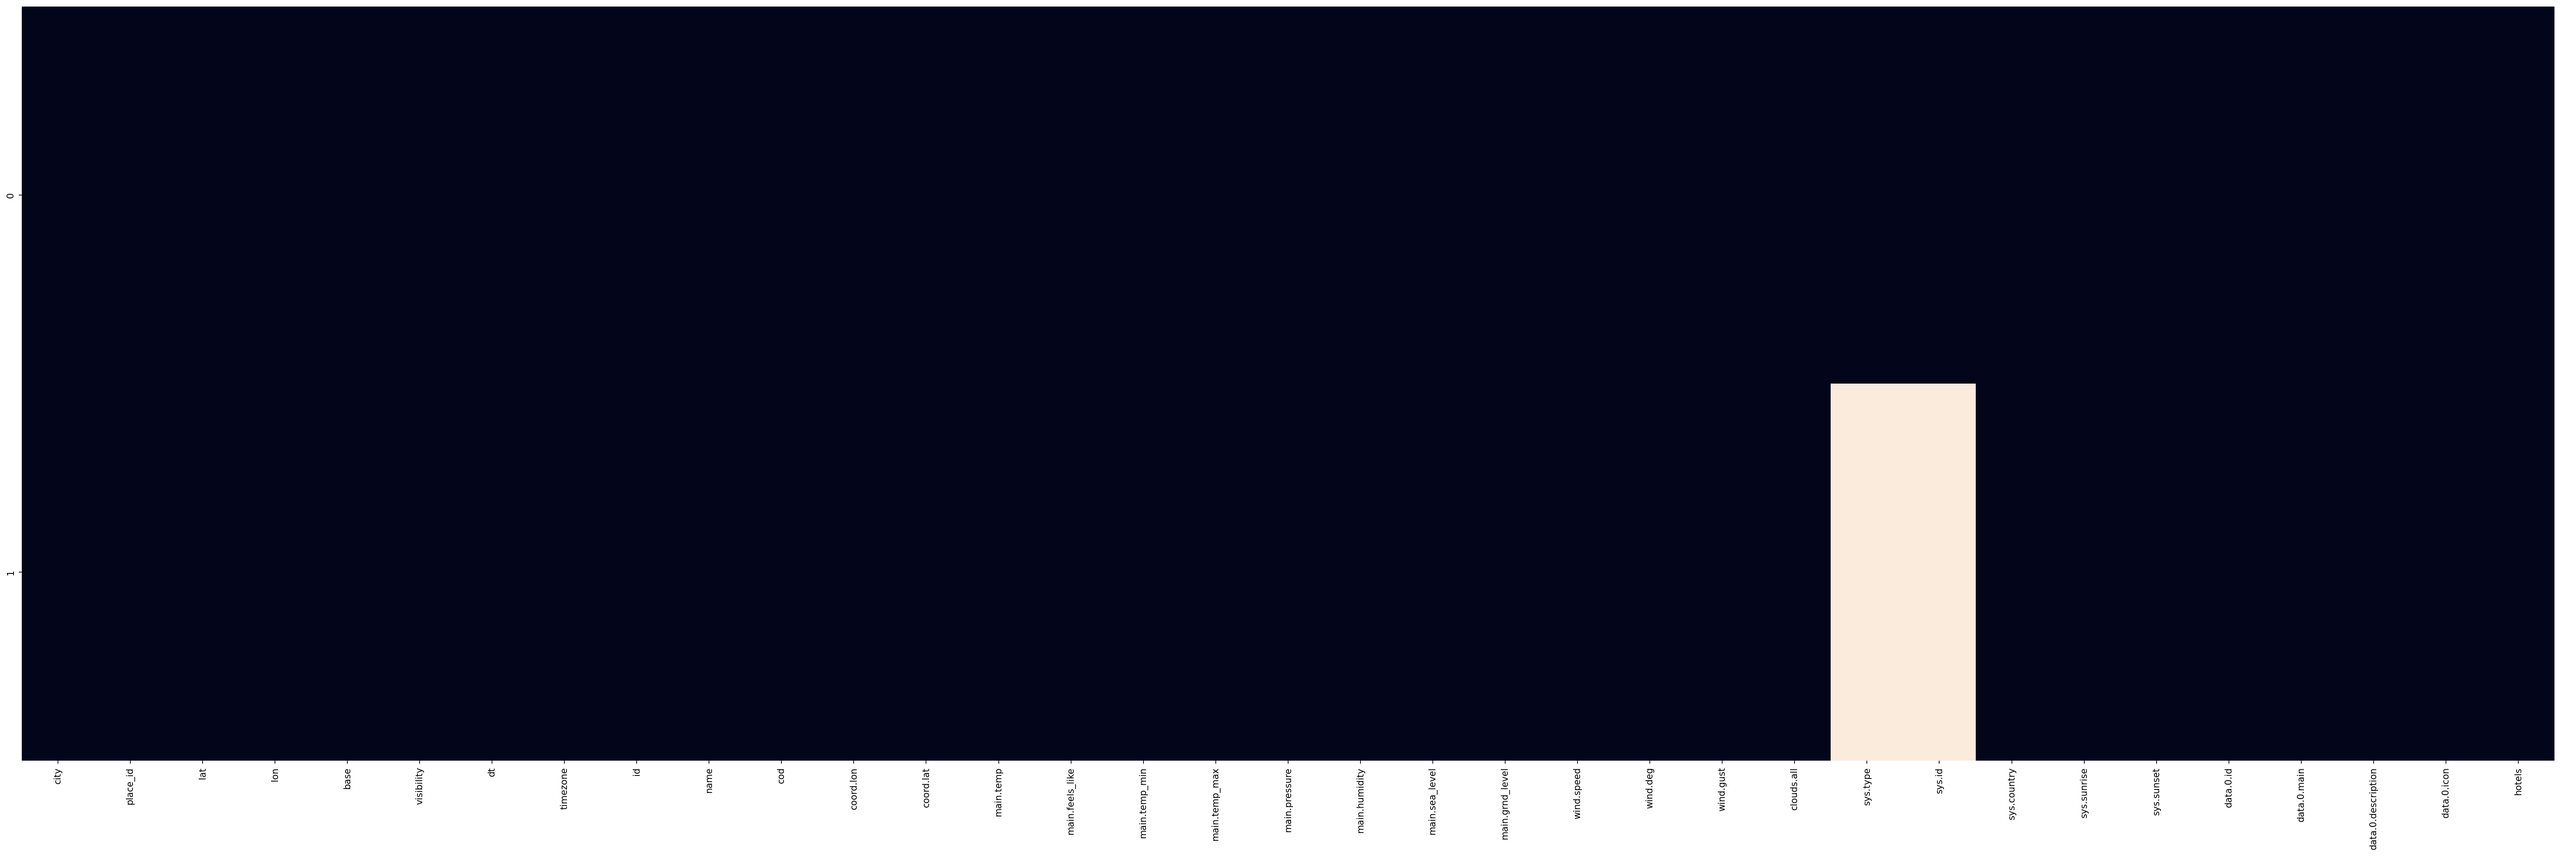
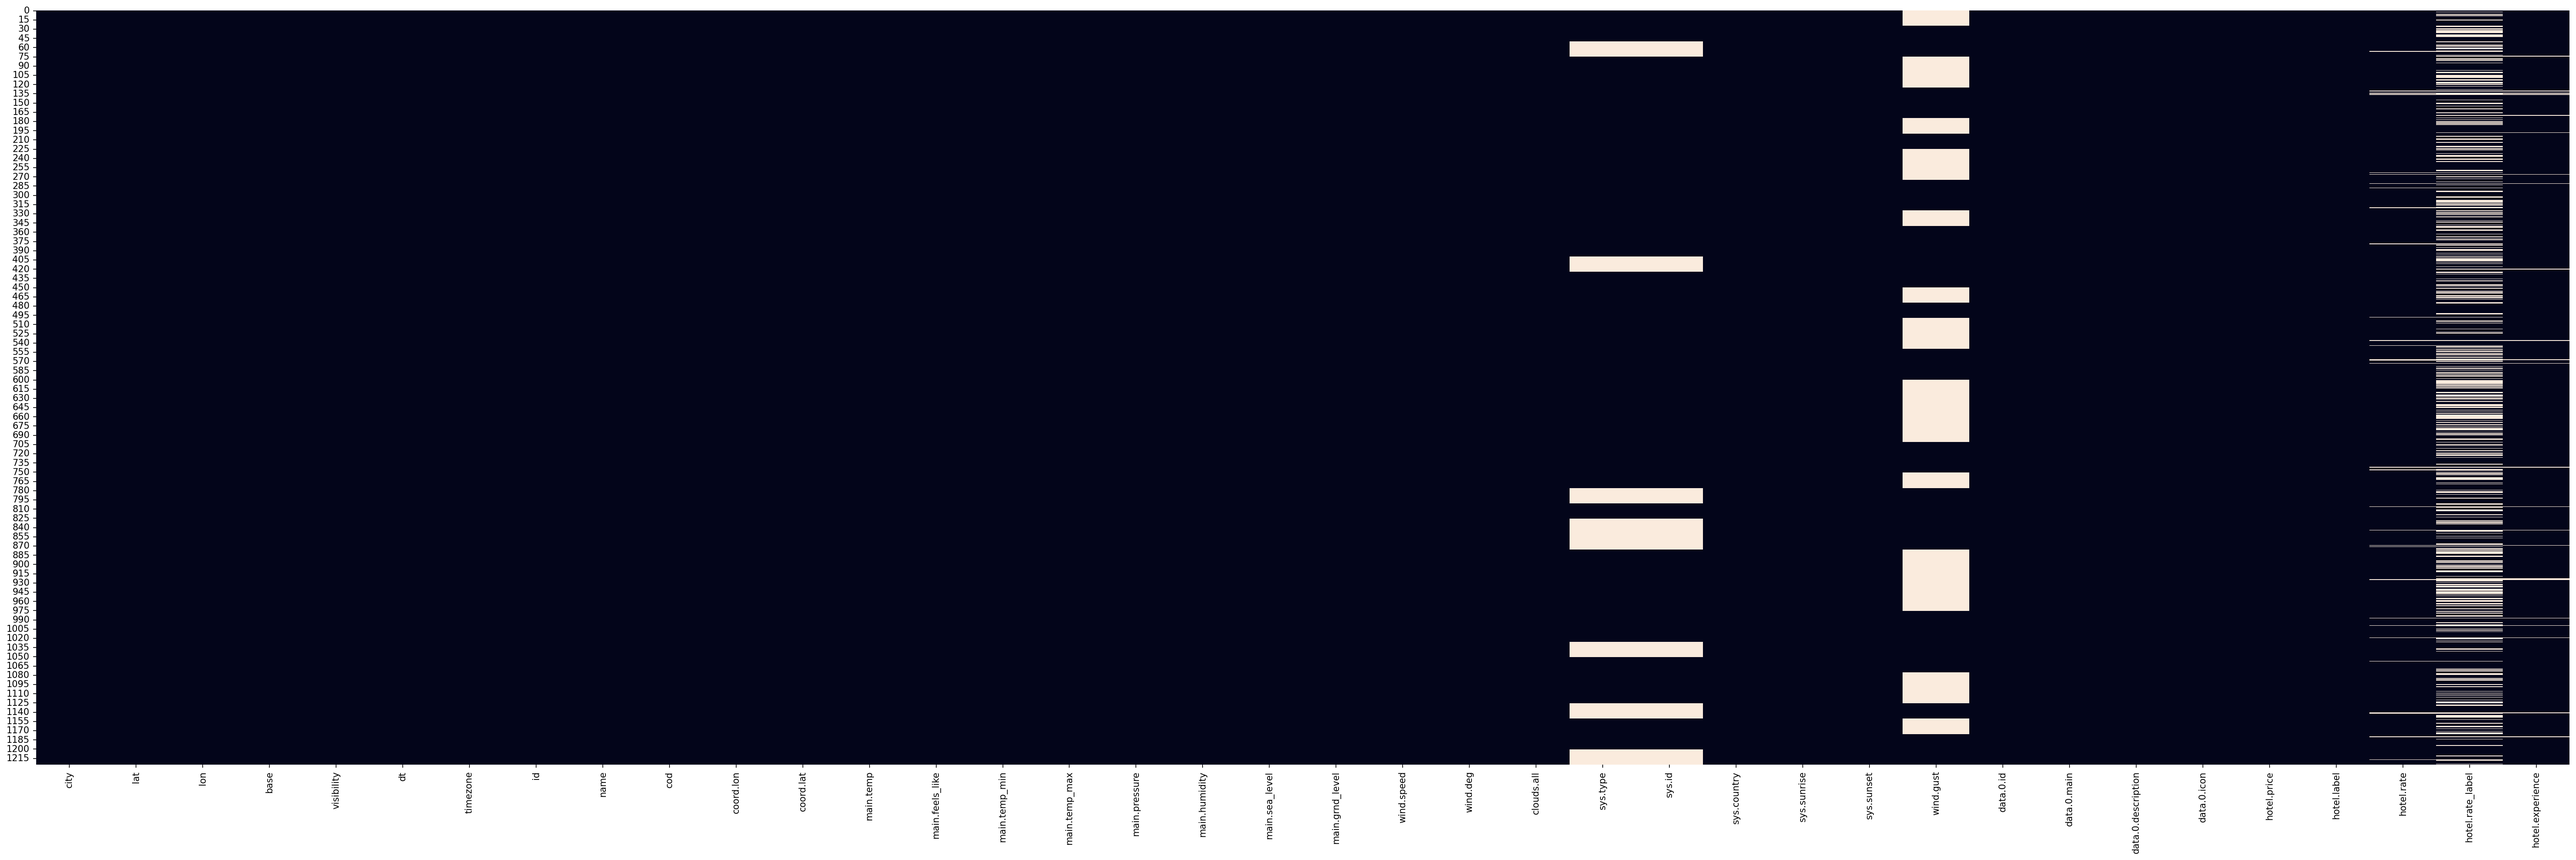
logs de traitement en cours

diff --git a/app.py b/app.py
@@ -19,15 +19,12 @@ from get_hotel import get_hotel
 # call api 
 ## get_city 
 
-# V2.5 "https://api.openweathermap.org/data/2.5/weather"
-# V4.0 "https://api.openweathermap.org/data/4.0/onecall/current"
-
-weather_url = weather_url
-
 cities_info = get_city(cities) # in dictionaries list, fetch per element
 cities_df = t.cities_normalize(cities_info)
 
 ## get_weather
+
+weather_url = weather_url
 
 weather_info = get_weather(cities_info)[0]
 weather_df = t.weather_normalize(weather_info)
@@ -65,7 +62,7 @@ for i, city in enumerate(current_weather_df['city']):
             hotel_info.append(hotel)
         else :
             no_hotel.append(city)
-        print(f"{len(hotel['hotels'])} hotel(s) found for {city}")
+        print(f"{len(hotel['hotels'])} hotel(s) found in {city}")
 
         if (i + 1) % 20 == 0:
             print("Pause after 20 cities...")

diff --git a/get_hotel.py b/get_hotel.py
@@ -21,6 +21,10 @@ def get_hotel(city, checkin, checkout):
     """
     Récupère les informations des hôtels pour une ville donnée en utilisant le site Booking.com via Playwright.
     """
+    # logs
+    print("---------------------------------------------------------------------")
+    print("Fetch hotel datas for each city...")
+
     city_url = quote_plus(city)
     # url = f"https://www.booking.com/searchresults.fr.html?ss={city_url}&lang=fr&checkin={checkin}&checkout={checkout}"
     url= f"https://www.booking.com/searchresults.fr.html?ss={city_url}&lang=fr&checkin={checkin}&checkout={checkout}&nflt=ht_id%3D204"
@@ -113,7 +117,7 @@ def get_hotel(city, checkin, checkout):
 
         browser.close()
 
-        return hotel_info
+    return hotel_info
 
 ##### script tests ####
 # get_hotel = get_hotel(city, checkin, checkout)

diff --git a/get_city.py b/get_city.py
@@ -79,10 +79,15 @@ def get_city(cities):
             print(f"Execution with errors for {city} : {nominatim_response.status_code}")
         
         time.sleep(2) 
-    print(len(response)) # liste de dictionnaires
-    # print(cities_info)
-    return cities_info
 
+    # logs
+    print("---------------------------------------------------------------------")
+    print("Fetch geocodes for each city...")
+    print(f"Status code : {nominatim_response.status_code}")
+    print(f"Results = {len(response)}") # dictionaries lists
+    # print(cities_info)
+    
+    return cities_info
 
 ##### script tests ####
 if __name__ == "__main__": # ce test s'exécute seulement si le fichier est lancé directement

diff --git a/config.py b/config.py
@@ -4,11 +4,6 @@
 
 from datetime import date, timedelta
 
-# V2.5 "https://api.openweathermap.org/data/2.5/weather"
-# V4.0 "https://api.openweathermap.org/data/4.0/onecall/current"
-
-weather_url = "https://api.openweathermap.org/data/2.5/weather"
-
 cities = [#"Aigues Mortes", "Aix en Provence", "Amiens", "Annecy", "Avignon",
     # "Barjols", 
     "Bayeux" 
@@ -24,5 +19,8 @@ cities = [#"Aigues Mortes", "Aix en Provence", "Amiens", "Annecy", "Avignon",
     # "Toulouse", "Uzes", "Valensole"
     ]
 
+# V2.5 "https://api.openweathermap.org/data/2.5/weather"
+# V4.0 "https://api.openweathermap.org/data/4.0/onecall/current"
 
+weather_url = "https://api.openweathermap.org/data/2.5/weather"
 

diff --git a/get_weather.py b/get_weather.py
@@ -42,8 +42,14 @@ def get_weather(cities_info):
             print(f"Failed on {city} : {weather_response.status_code}")
         time.sleep(2)
 
-    return weather_info, print(len(response))
+    # logs
+    print("---------------------------------------------------------------------")
+    print("Fetch weather datas for each city...")
+    print(f"Status code : {weather_response.status_code}")
+    print(f"Results = {len(response)}") # dictionaries lists
+    # print(weather_info)
 
+    return weather_info
 
 ##### script tests ####
 if __name__ == "__main__": # ce test s'exécute seulement si le fichier est lancé directement

diff --git a/treatment.py b/treatment.py
@@ -36,13 +36,12 @@ def weather_normalize(weather_info):
 
 # hotel
 
-# à refaire en tenant compte de hotel_city
 def hotel_normalize(hotel_info):
 
-    hotel_df = pd.json_normalize(
+    hotel_df = pd.json_normalize( # normalize imbricated json into dataframe
     hotel_info, 
-    record_path=['hotels'], 
-    meta=['city']
+    record_path=['hotels'], # one line per hotel
+    meta=['city'] # with city column for each line
     )
 
     # add prefix column hotel.
